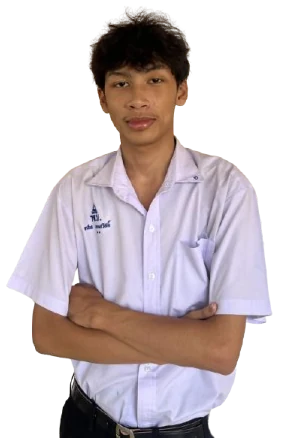
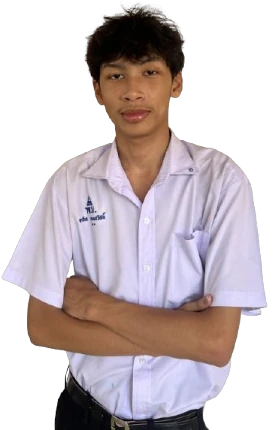
New sharper photos in the ID card
Standing (idle) and arms crossed (hover) replaced with the new photos, put on
one shared canvas with the heads lined up and the same size, so the hover swap
does not jump. Drifting skill chips can no longer widen the page on phones.

Claude-Session: https://claude.ai/code/session_01BUk5FWSMhegroaXVpkAXCa

diff --git a/about.html b/about.html
@@ -11,8 +11,8 @@
 <link rel="preconnect" href="https://fonts.googleapis.com">
 <link rel="preconnect" href="https://fonts.gstatic.com" crossorigin>
 <link href="https://fonts.googleapis.com/css2?family=Kanit:wght@400;600;700;800&family=IBM+Plex+Sans+Thai:wght@400;500;600&display=swap" rel="stylesheet">
-<link rel="stylesheet" href="assets/style.css?v=16">
-<script src="assets/main.js?v=16" defer></script>
+<link rel="stylesheet" href="assets/style.css?v=17">
+<script src="assets/main.js?v=17" defer></script>
 </head>
 <body>
 <header class="site-header">
@@ -42,8 +42,8 @@
                and the head coming out over the card's top edge; hovering swaps to arms crossed -->
           <figure class="me">
             <p class="me-word" aria-hidden="true">ARLIF</p>
-            <img class="me-idle" src="assets/me-idle.webp" alt="อาลีฟ เกษมสวัสดิ์ ในชุดนักเรียน" width="284" height="438">
-            <img class="me-hover" src="assets/me-hover.webp" alt="" width="284" height="438" aria-hidden="true">
+            <img class="me-idle" src="assets/me-idle.webp" alt="อาลีฟ เกษมสวัสดิ์ ในชุดนักเรียน" width="273" height="430">
+            <img class="me-hover" src="assets/me-hover.webp" alt="" width="273" height="430" aria-hidden="true">
             <a class="cloud" href="#skills"><span>SKILL ข้างล่าง ↓</span><i></i><i></i></a>
           </figure>
           <dl class="profile">

diff --git a/assets/style.css b/assets/style.css
@@ -257,6 +257,7 @@ h2{font-size:clamp(26px,3.4vw,38px);font-weight:700;margin:96px 0 32px}
 /* small horizontal chips: icon + name; featured ones wear a crown on top and link to their works */
 .skill-grid{list-style:none;display:flex;flex-wrap:wrap;gap:22px 12px;padding-top:12px}
 .skills{--s:0}
+.page:has(#skills){overflow-x:clip} /* drifting chips may float past the screen edge, never widen the page */
 .js .skills.drifting .tile{animation:drift var(--dur,9s) ease-in-out var(--del,0s) infinite alternate}
 @keyframes drift{
   from{translate:calc(var(--dx,0px) * var(--s)) calc(var(--dy,0px) * var(--s));rotate:calc(var(--r,0deg) * var(--s))}

diff --git a/goal.html b/goal.html
@@ -11,8 +11,8 @@
 <link rel="preconnect" href="https://fonts.googleapis.com">
 <link rel="preconnect" href="https://fonts.gstatic.com" crossorigin>
 <link href="https://fonts.googleapis.com/css2?family=Kanit:wght@400;600;700;800&family=IBM+Plex+Sans+Thai:wght@400;500;600&display=swap" rel="stylesheet">
-<link rel="stylesheet" href="assets/style.css?v=16">
-<script src="assets/main.js?v=16" defer></script>
+<link rel="stylesheet" href="assets/style.css?v=17">
+<script src="assets/main.js?v=17" defer></script>
 </head>
 <body class="goal-page">
 <header class="site-header">

diff --git a/index.html b/index.html
@@ -11,8 +11,8 @@
 <link rel="preconnect" href="https://fonts.googleapis.com">
 <link rel="preconnect" href="https://fonts.gstatic.com" crossorigin>
 <link href="https://fonts.googleapis.com/css2?family=Kanit:wght@400;600;700;800&family=IBM+Plex+Sans+Thai:wght@400;500;600&display=swap" rel="stylesheet">
-<link rel="stylesheet" href="assets/style.css?v=16">
-<script src="assets/main.js?v=16" defer></script>
+<link rel="stylesheet" href="assets/style.css?v=17">
+<script src="assets/main.js?v=17" defer></script>
 </head>
 <body>
 <header class="site-header">

diff --git a/works.html b/works.html
@@ -11,8 +11,8 @@
 <link rel="preconnect" href="https://fonts.googleapis.com">
 <link rel="preconnect" href="https://fonts.gstatic.com" crossorigin>
 <link href="https://fonts.googleapis.com/css2?family=Kanit:wght@400;600;700;800&family=IBM+Plex+Sans+Thai:wght@400;500;600&display=swap" rel="stylesheet">
-<link rel="stylesheet" href="assets/style.css?v=16">
-<script src="assets/main.js?v=16" defer></script>
+<link rel="stylesheet" href="assets/style.css?v=17">
+<script src="assets/main.js?v=17" defer></script>
 </head>
 <body>
 <header class="site-header">
